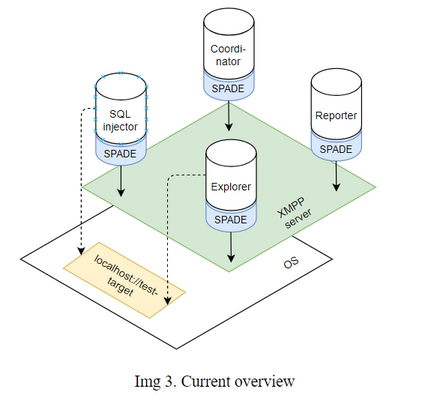
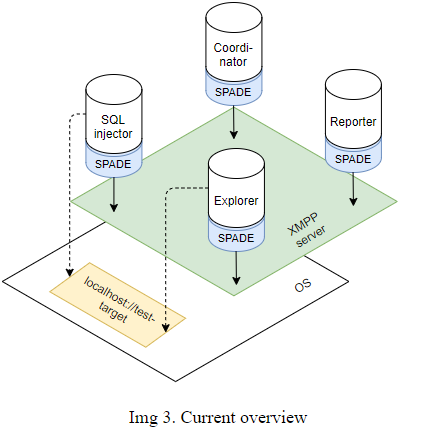
Updates to README
image of the current system overview fixed and replaced.

System overview text expanded.

Changed region(s): [[0.0, 0.0, 0.9112, 0.8978], [0.2734, 0.9277, 0.6986, 0.9875]]

diff --git a/README.md b/README.md
@@ -162,11 +162,15 @@ that make up the system are independent of the main process, upgradeable and use
 pentesting tools.
 
 To achieve the goals envisioned, agents are developed as part of a **_three-tier model_** which is derived from
-standard steps of conducting a pentest (planning - execution - post execution). A very high overview of the said model can be seen on an image below.
+standard pentest phases (_planning - execution - post execution_). A very high overview of the said model can be seen on **Img1** below.
 
-In the first image, arrows represent the flow of data in the model. 
+All theoretical concepts in this overview have already been implemented in code (apart from the idea for the future - **Img 8.**). These concepts should continue to be implemented in any future upgrades to the system.
 
-First tier contains the **Explorer** agent(s) which are tasked with conducting OSINT and gathering any useful intelligence about the target.
+### _Three-tier model_
+
+Main idea behind the _three-tier model_ is to provide a framework to be used for organizing and classifying agents in this system.
+
+First tier of the model contains the **Explorer** agent(s) which are tasked with conducting OSINT and gathering any useful intelligence about the target.
 
 Second tier contains the **Coordinator** agent and **_Exploit_** agents. The Coordinator is a single agent
 that decides which exploit agents are going to take part in the current testing. Exploit agents, as the name
@@ -177,18 +181,54 @@ Third tier contains the **Reporter** whose task is to collect all exploit data, 
 all exploit agents and summarise it in a final report. The report is then showed to the user and stored
 locally.
 
-&nbsp;
-
-![Img1](/readme_files/images/threetier.png) ![Img2](/readme_files/images/detailedthree.png)
+In the first image, thick arrows represent the flow of data in the model.
 
 &nbsp;
+
+![Img1](/readme_files/images/threetier.png) &ensp; &ensp; ![Img2](/readme_files/images/detailedthree.png)
+
+&nbsp;
+
+**Img2** shows the same model as the first image but in greater detail - agents can be
+clearly seen in their respective tiers. The _full_ arrows in this image again represent the flow of data
+in the model which consequently shows which agents are communicating with each other. It can be seen that
+**Explorer** agent sends data to the **Coordinator** agent, who then in turn sends some data to the
+**Exploit** agents (SQLinjector, agent2, agent3). Finally, all the data that exploit agents gather is
+passed to the **Reporter** agent who then compiles it, summarises it and presents it to the user.
+
+It can also be seen that only **Explorer** and **Exploit** (SQLinjector) agents interact with the
+outside environment (Test target). This is represented with two-way _dotted_ arrows.
+
+___
+
+### Architecture
+
+As mentioned earlier, one of the charecteristique of the MASAPT system is for it to be somewhat _distributed_. One aspect of this has already been implemented seeing how all agents are implemented as
+independand programs, controlled by the main ([_masapt_](masapt)) script.
+
+**Img 3.** shows how the current system was setup and tested. It can be seen that agents use the SPADE
+environment to communicate over XMPP (ejabberd) server which is setup on the local system. Test target
+(SQLi Labs) is also setup on the local system. While good for testing, this approach does not scale
+well and is not very representative of the vision that the author has for this system.
+
 &nbsp;
 
 ![Img3](/readme_files/images/current.png) ![Img4](/readme_files/images/futureidea.png)
 
+&nbsp;
 
-Second image shows the same model as the first image but in greater detail. Agents can be
-clearly found in their respective tiers.
+**Img 4.** on the other hand shows the idea how MASAPT was intented to be. It shows a distributed multi-agent system
+that uses XMPP to communicate and Docker to run accross many different systems. _Full_ arrows once again show the
+communication and data flow aspect of the agents, showing how agents send and receive their data over a central XMPP server.
+
+#### Reason for XMPP
+
+Main reason for agents to communicate over XMPP is to provide a reliable, language-agnostic way for agents
+to communicate. With this approach, not all future agents have to be written in Python or even use the
+SPADE environment.
+
+Reasoning behind this is that there may be some use case for a different system to be part of MASAPT
+in the future (ex. agents written in other programming languages). So this 'XMPP approach' is the best way to provide that kind of flexibility to the system.
 
 ### Agent behaviour
 
@@ -200,15 +240,15 @@ Diagrams below show all possible states an agent can be in at any moment.
 in time. Diagrams also show what events cause agent to switch to the next state.
 ALL FUTURE AGENTS should be implemented in the same manner.
 
-All future exploit agents (ex. DoS, XSS...) should be implemented using the Img 8. diagram as template
+All future exploit agents (ex. DoS, XSS...) should be implemented using the **Img 8.** diagram as template
 
 &nbsp;
 
-![Img5](/readme_files/images/coordinator_fsm.png) ![Img6](/readme_files/images/explorer_fsm.png)
+![Img5](/readme_files/images/coordinator_fsm.png) &ensp; ![Img6](/readme_files/images/explorer_fsm.png)
 
 &nbsp;
 
-![Img7](/readme_files/images/reporter_fsm.png) ![Img8](/readme_files/images/exploit_fsm.png)
+![Img7](/readme_files/images/reporter_fsm.png) &ensp; ![Img8](/readme_files/images/exploit_fsm.png)
 
 &nbsp;
 
